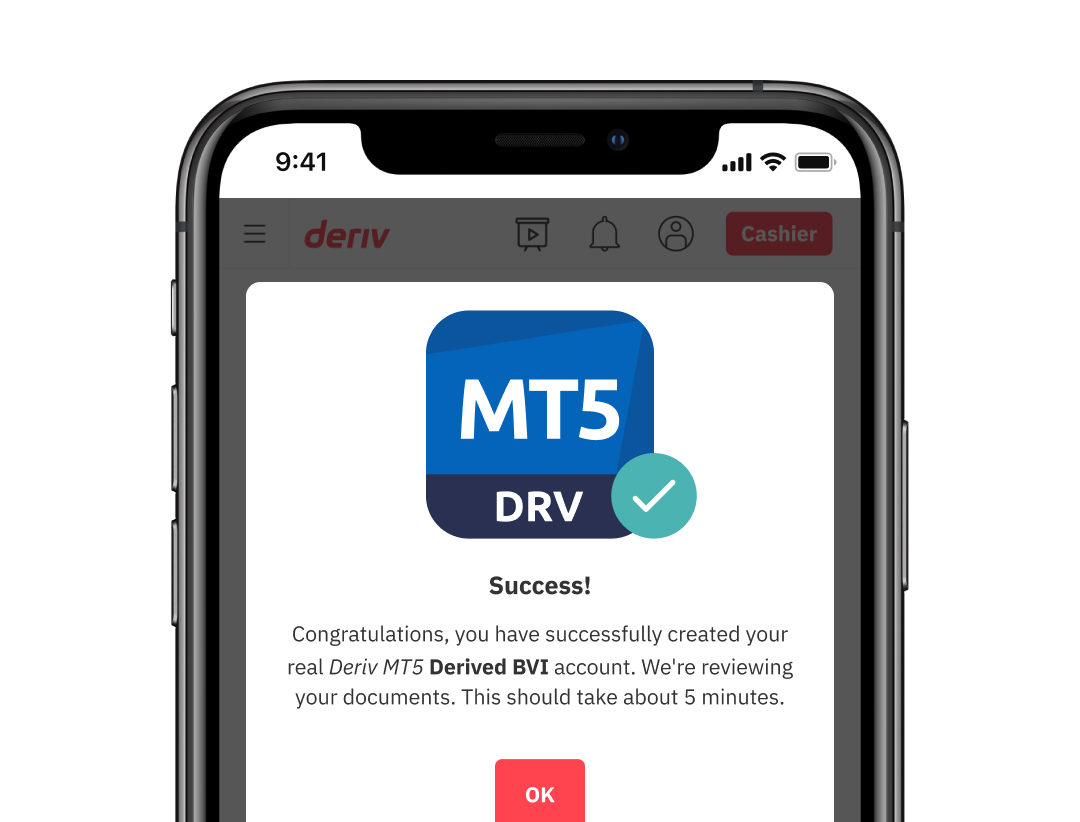
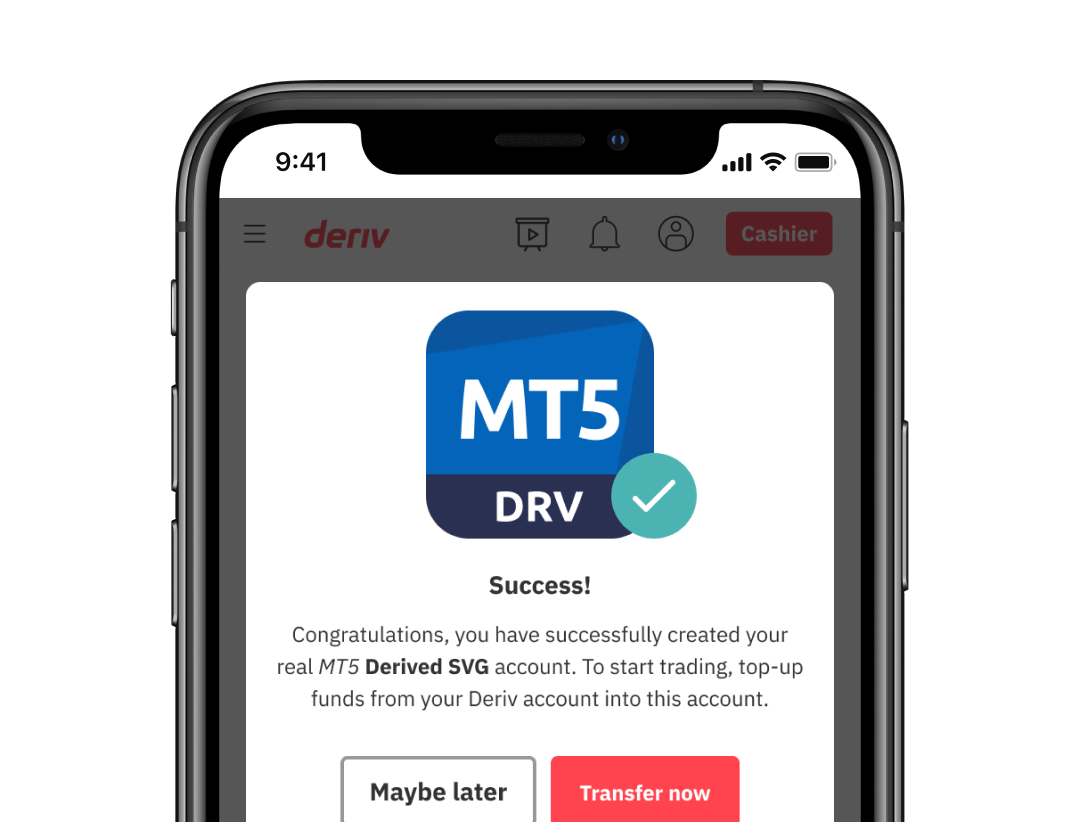
fix: changed the image for mt5 currencies and mobile version derived svg

Changed region(s): [[0.2444, 0.7603, 0.7333, 0.882], [0.3056, 0.9124, 0.7028, 1.0], [0.4583, 0.6995, 0.55, 0.7299]]

diff --git a/src/pages/dmt5/_start-trader.tsx b/src/pages/dmt5/_start-trader.tsx
@@ -357,7 +357,7 @@ const StartTrader = () => {
                 ),
             },
             {
-                title: () => '_t_Create a real Deriv Multipliers account._t_',
+                title: () => '_t_Create a Deriv real money account_t_',
                 image: () => (
                     <QueryImage
                         data={data[is_mobile_or_tablet ? 'real_step2_mobile_eu' : 'real_step2_eu']}
